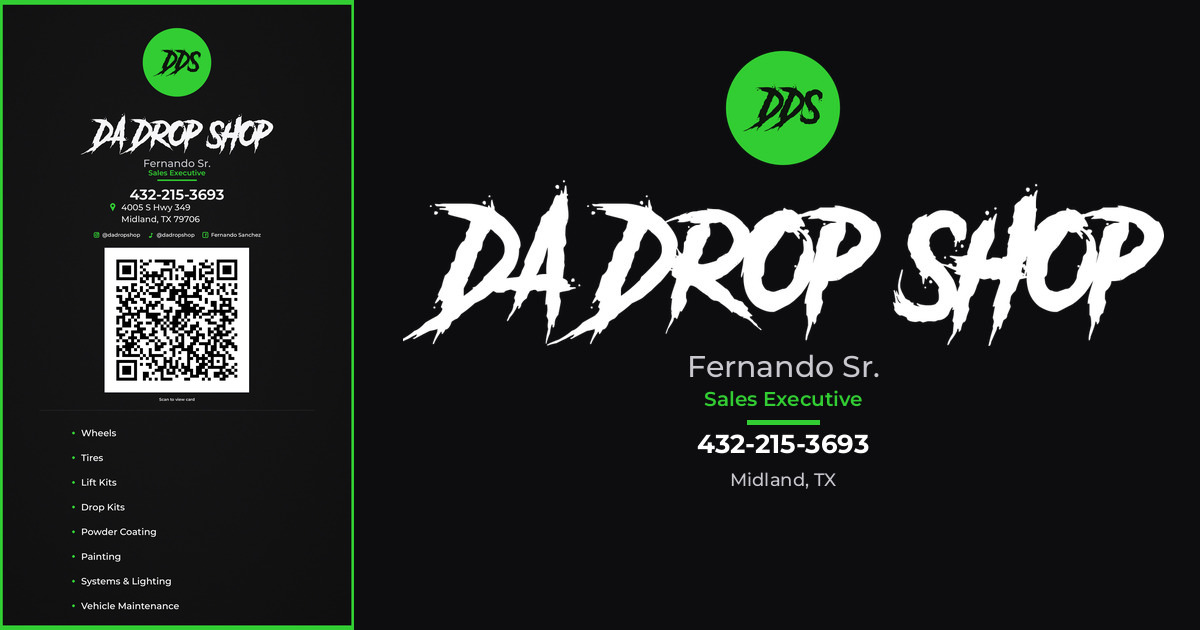
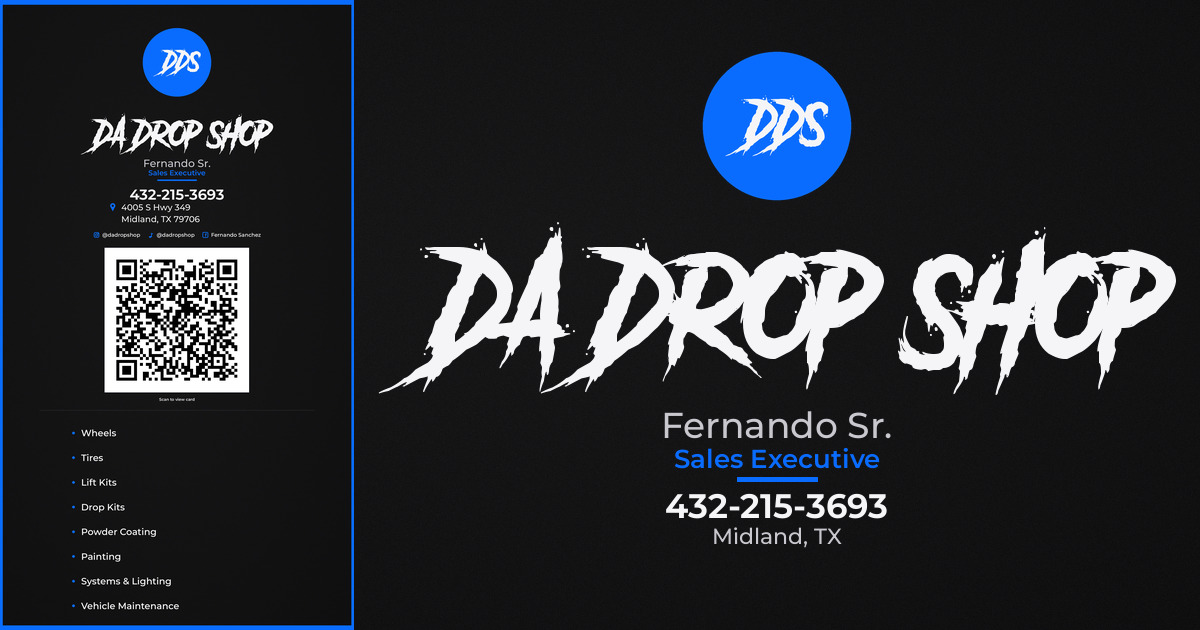
Recolor Fernando Sr. card from lime to blue
Use the same #0A6CFF as Timothy's card, with white DDS on the blue badge.

diff --git a/index.html b/index.html
@@ -6,7 +6,7 @@
 <meta name="author" content="Timothy Ivins">
 <meta name="copyright" content="© 2026 Timothy Ivins">
 <meta name="description" content="Digital business card for Da Drop Shop, Fernando Sr., Sales Executive. Services: wheels, tires, lift kits, drop kits, powder coating, painting, systems and lighting, and vehicle maintenance. Design by Timothy Ivins.">
-<meta name="theme-color" content="#32CD32">
+<meta name="theme-color" content="#0A6CFF">
 <title>Da Drop Shop - Fernando Sr.</title>
 <link rel="canonical" href="https://fernsjr.github.io/dadropshop-card-sr/">
 <link rel="icon" type="image/png" href="favicon.png">
@@ -49,8 +49,8 @@ html, body {
 .btn {
   display: block;
   width: 100%;
-  background: #32CD32;
-  color: #0E160E;
+  background: #0A6CFF;
+  color: #fff;
   text-decoration: none;
   font-weight: 700;
   font-size: 18px;
@@ -61,8 +61,8 @@ html, body {
 }
 .btn.secondary {
   background: transparent;
-  border: 2px solid #32CD32;
-  color: #32CD32;
+  border: 2px solid #0A6CFF;
+  color: #0A6CFF;
 }
 .btn:hover { opacity: 0.92; }
 .addr {
@@ -96,7 +96,7 @@ html, body {
   width: 7px;
   height: 7px;
   border-radius: 50%;
-  background: #32CD32;
+  background: #0A6CFF;
 }
 .more {
   display: grid;
@@ -118,8 +118,8 @@ html, body {
 }
 .btn.social {
   background: transparent;
-  border: 2px solid #32CD32;
-  color: #32CD32;
+  border: 2px solid #0A6CFF;
+  color: #0A6CFF;
   font-size: 15px;
   padding: 12px 12px;
 }
